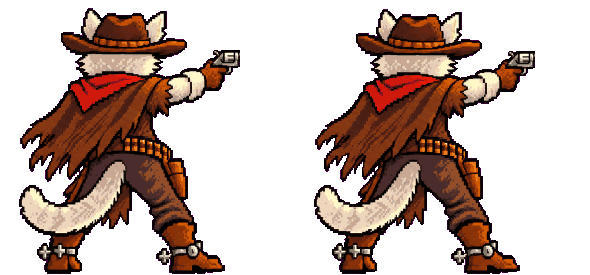
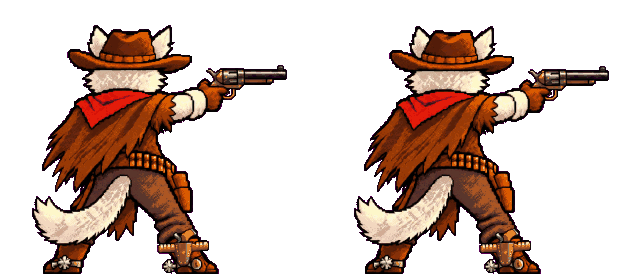
Art: redesigned hero revolver (new aim/fire sheet), pose split by component
Claude-Session: https://claude.ai/code/session_014NmJWr6S3wqeJjTYjU3gLH

diff --git a/Tools/ArtGen/v3/build_v3.py b/Tools/ArtGen/v3/build_v3.py
@@ -99,9 +99,15 @@ def hero_frames():
     fr = {}
     for f, names, mult in jobs:
         a = np.asarray(Image.open(P(f)).convert('RGB')); m = clean(key_magenta(a))
-        cnt = m.sum(0); W = m.shape[1]; lo, hi = int(W * .35), int(W * .65); split = lo + int(np.argmin(cnt[lo:hi]))
-        for n, (x0, x1) in zip(names, [(0, split), (split, W)]):
-            fr[n] = resample(a[:, x0:x1], m[:, x0:x1].astype(np.float32), S * mult)
+        # the two poses can overlap in x (a long gun barrel over the other cat's tail): split by
+        # connected component, each component goes to the pose whose half holds its centroid
+        lab, n = ndimage.label(ndimage.binary_dilation(m, iterations=2))
+        W = m.shape[1]; cx = ndimage.center_of_mass(m, lab, range(1, n + 1))
+        left = np.isin(lab, [i + 1 for i, c in enumerate(cx) if c[1] < W / 2])
+        masks = [m & left, m & ~left]
+        for nme, mk in zip(names, masks):
+            ys, xs = np.where(mk); x0, x1 = xs.min(), xs.max() + 1
+            fr[nme] = resample(a[:, x0:x1], mk[:, x0:x1].astype(np.float32), S * mult)
     return shared_palette(fr)
 
 REG = {'bandit_ready': (812, 45, 1025, 322), 'bandit_draw': (1050, 45, 1290, 322), 'bandit_aim': (1300, 45, 1525, 322),
